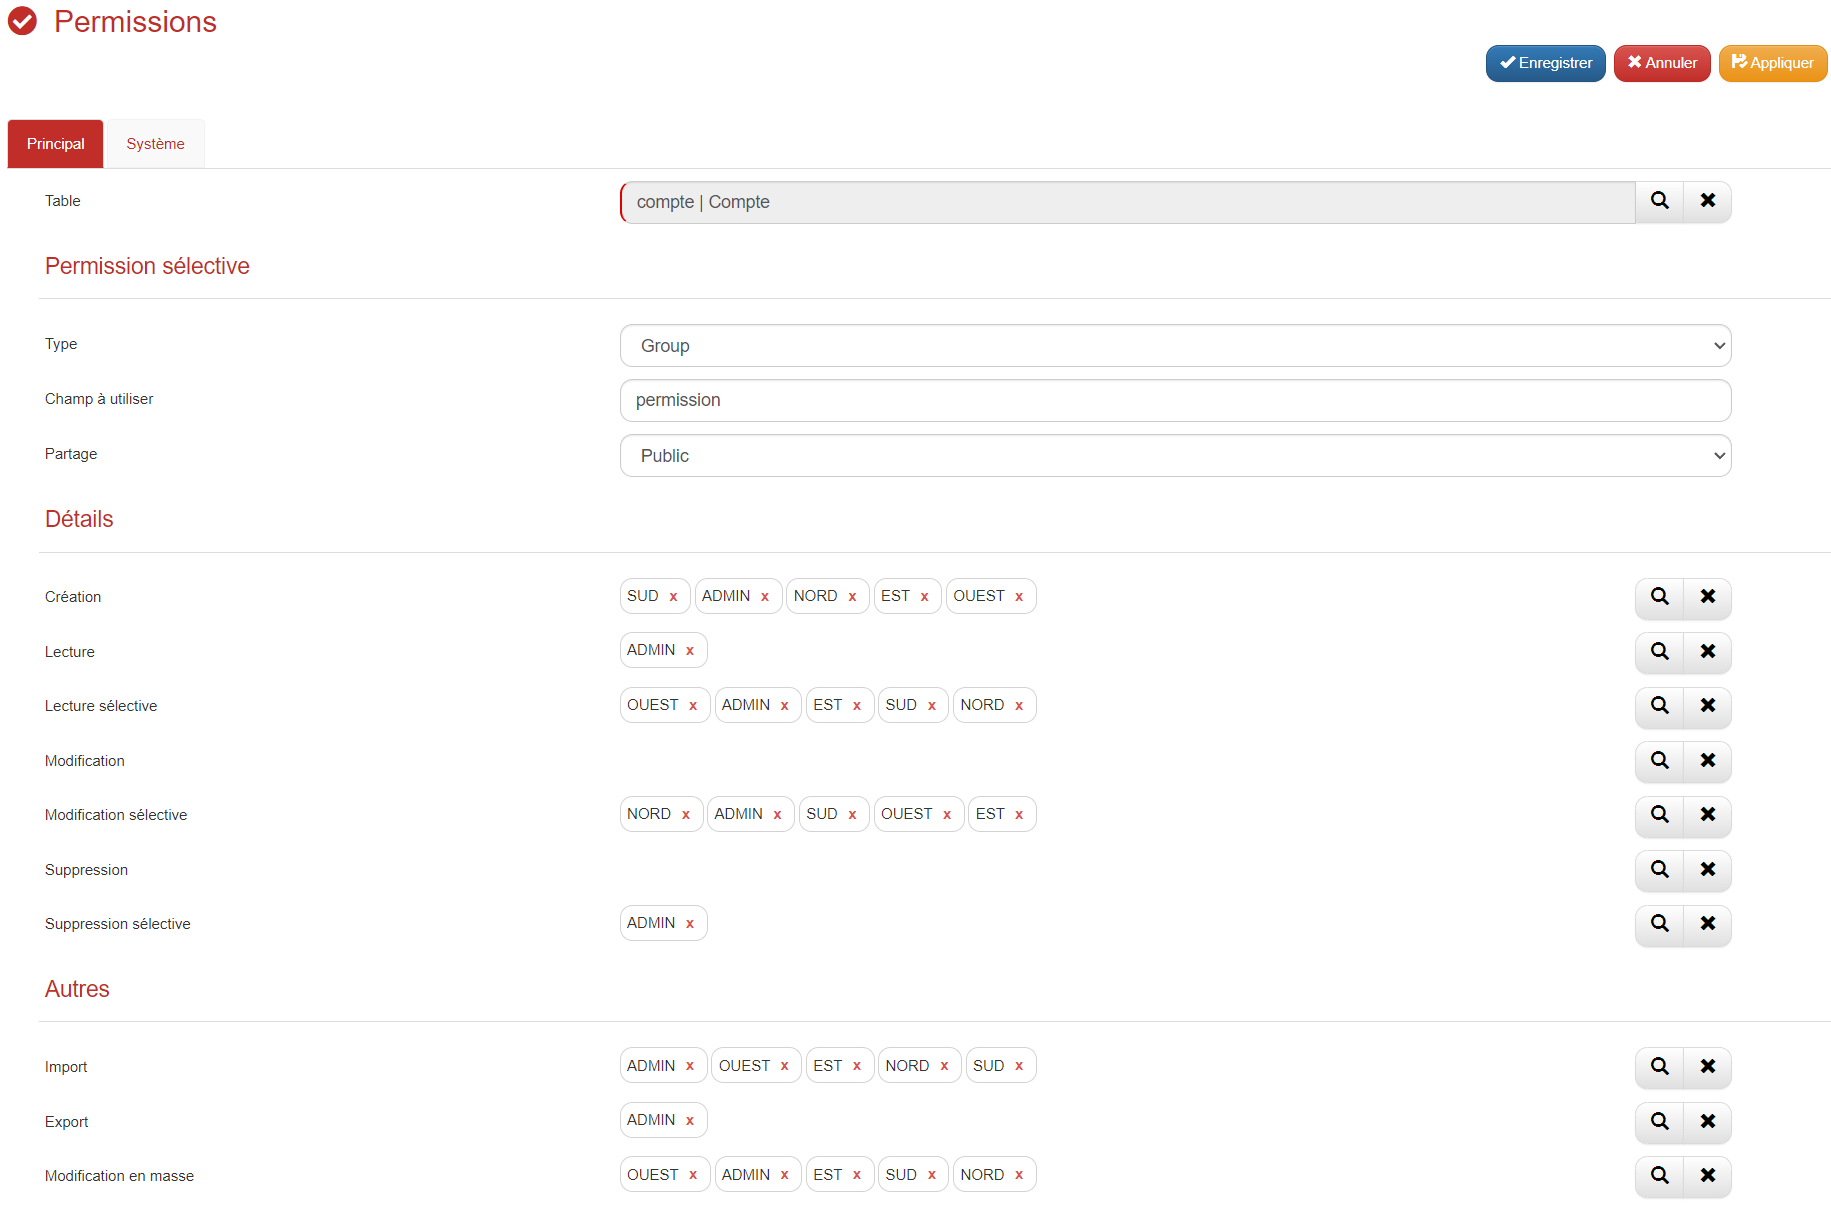
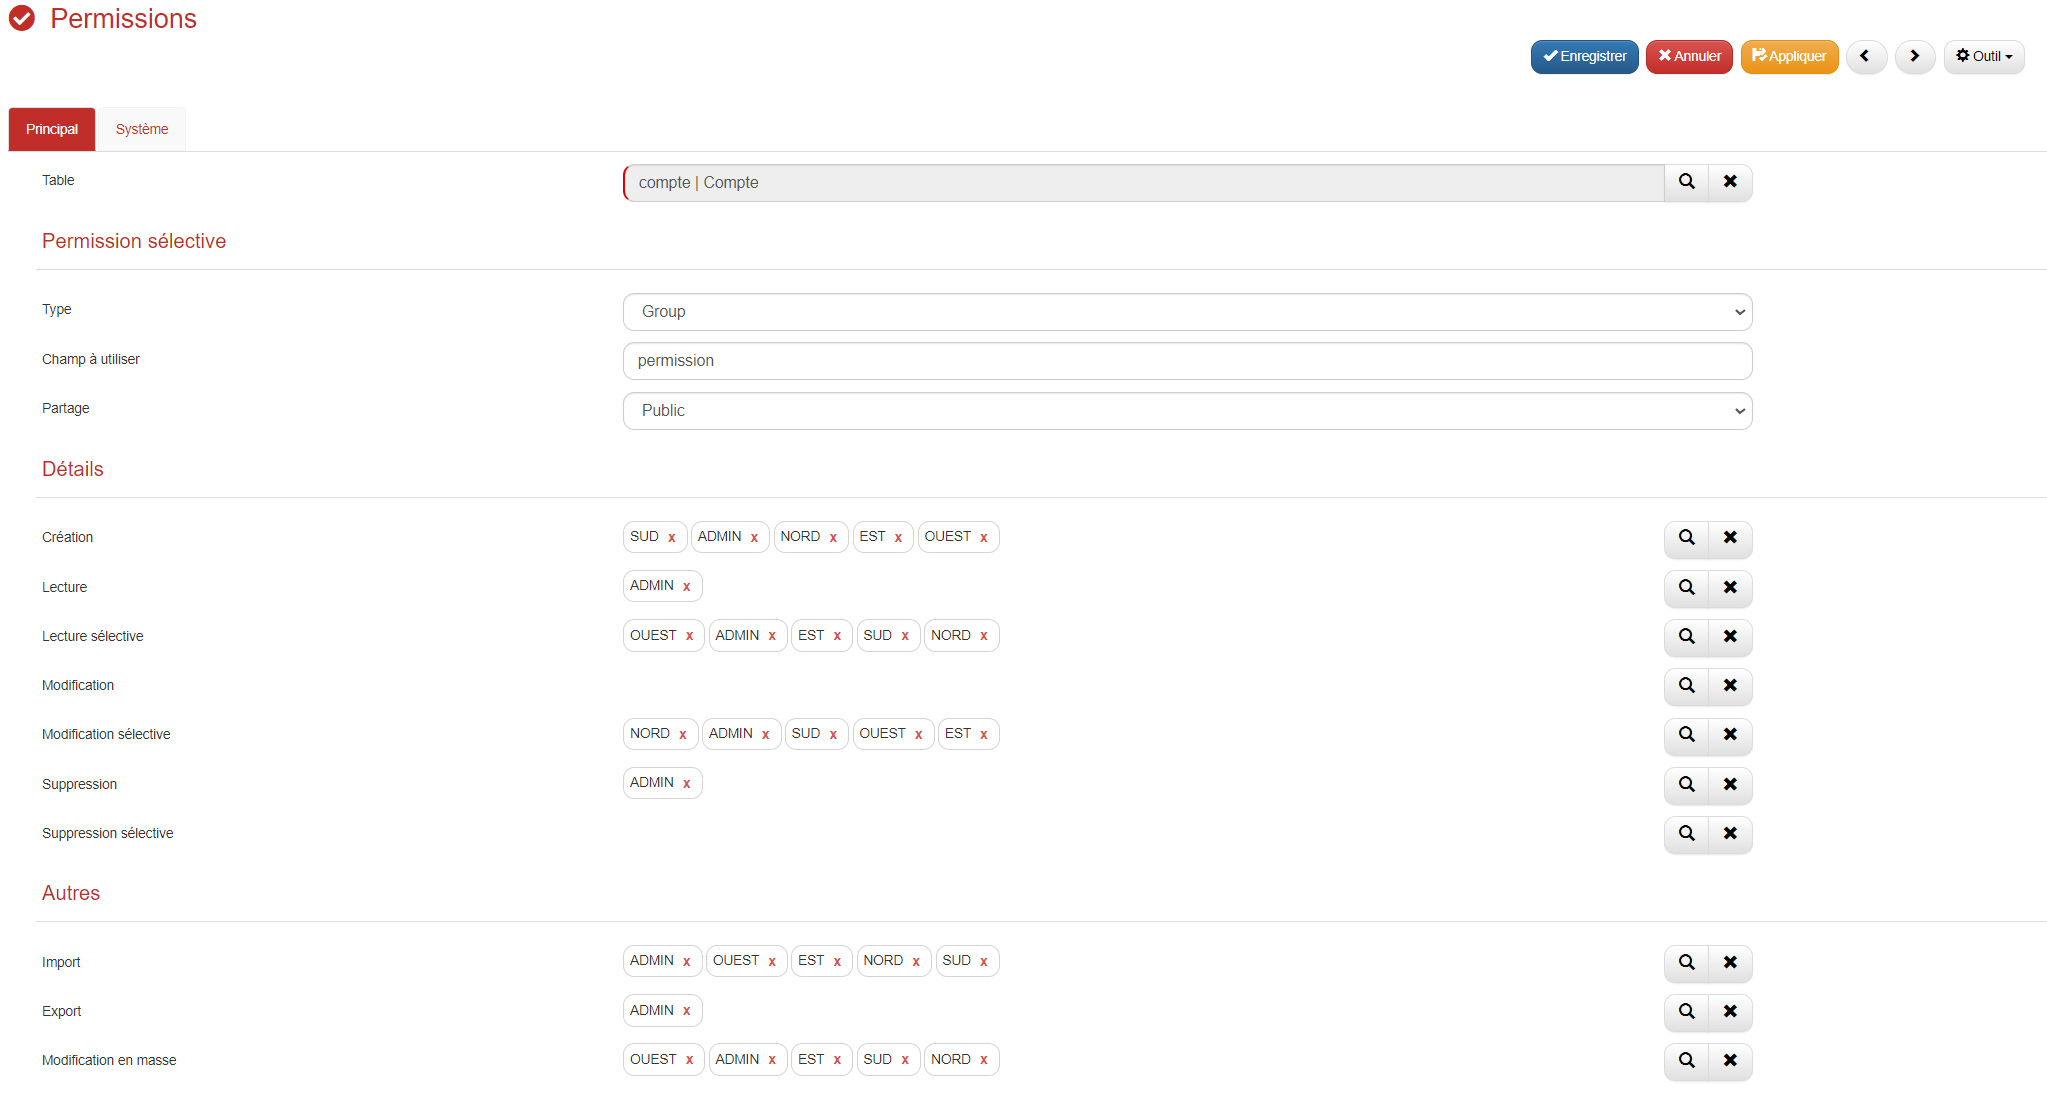
Corrections Permissions

diff --git a/Note_technique/Permissions/readme.md b/Note_technique/Permissions/readme.md
@@ -87,7 +87,7 @@ Vous disposez de commerciaux dont les clients sont répartis par région, et vou
 | **Lecture**           | ADMIN                             |
 | **Lecture sélective** | SUD, ADMIN, NORD, EST, OUEST      |
 | **Modification sélective** | SUD, ADMIN, NORD, EST, OUEST |
-| **Suppression sélective** | ADMIN                         |
+| **Suppression** | ADMIN                         |
 | **Import**            | SUD, ADMIN, NORD, EST, OUEST      |
 | **Export**            | ADMIN                             |
 | **Modification en masse** | SUD, ADMIN, NORD, EST, OUEST  |
@@ -108,7 +108,7 @@ Vous disposez de commerciaux dont les clients sont répartis par région, et vou
 - Depuis une session région **SUD** :
 ![Images](images/EXEMPLE_VUE_RESULTAT_USER.png)
 
-- Depuis une session **ADMIN** :
+- Depuis une session **GESTIONNAIRE** :
 ![Images](images/EXEMPLE_VUE_RESULTAT_ADMIN.png)
 
 ### Conclusion
